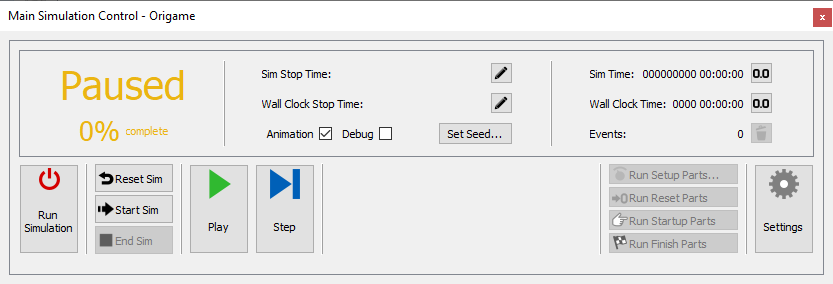
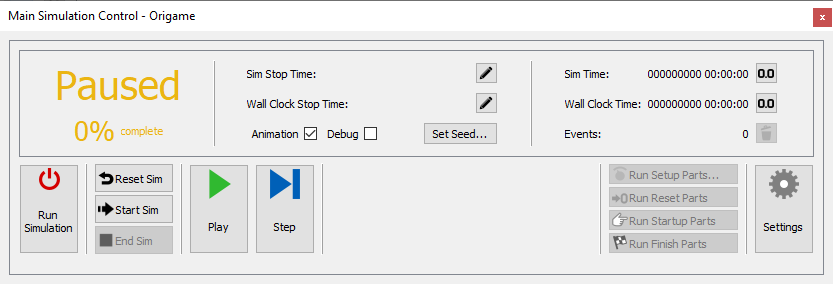
update the initial displayed max sim time

diff --git a/origame/gui/sim/main/Ui_main_sim_control_status.py b/origame/gui/sim/main/Ui_main_sim_control_status.py
@@ -358,19 +358,19 @@ class Ui_MainSimulationControlWidget(object):
         self.percent_complete_label.setText(_translate("MainSimulationControlWidget", "0%"))
         self.complete_label.setText(_translate("MainSimulationControlWidget", "complete"))
         self.label.setText(_translate("MainSimulationControlWidget", "Sim Stop Time:"))
-        self.max_sim_time_label.setText(_translate("MainSimulationControlWidget", "0000 00:00:00"))
+        self.max_sim_time_label.setText(_translate("MainSimulationControlWidget", "000000000 00:00:00"))
         self.edit_sim_stop_time_toolbutton.setText(_translate("MainSimulationControlWidget", "..."))
         self.label_2.setText(_translate("MainSimulationControlWidget", "Wall Clock Stop Time:"))
-        self.max_wall_clock_time_label.setText(_translate("MainSimulationControlWidget", "0000 00:00:00"))
+        self.max_wall_clock_time_label.setText(_translate("MainSimulationControlWidget", "000000000 00:00:00"))
         self.edit_wall_clock_stop_time_toolbutton.setText(_translate("MainSimulationControlWidget", "..."))
         self.animation_checkbox.setText(_translate("MainSimulationControlWidget", "Animation"))
         self.debug_checkbox.setText(_translate("MainSimulationControlWidget", "Debug"))
         self.set_seed_button.setText(_translate("MainSimulationControlWidget", "Set Seed..."))
         self.label_4.setText(_translate("MainSimulationControlWidget", "Sim Time:"))
-        self.sim_time_label.setText(_translate("MainSimulationControlWidget", "0000 00:00:00"))
+        self.sim_time_label.setText(_translate("MainSimulationControlWidget", "000000000 00:00:00"))
         self.reset_sim_time_toolbutton.setText(_translate("MainSimulationControlWidget", "..."))
         self.label_5.setText(_translate("MainSimulationControlWidget", "Wall Clock Time:"))
-        self.wall_clock_time_label.setText(_translate("MainSimulationControlWidget", "0000 00:00:00"))
+        self.wall_clock_time_label.setText(_translate("MainSimulationControlWidget", "000000000 00:00:00"))
         self.reset_wall_clock_time_toolbutton.setText(_translate("MainSimulationControlWidget", "..."))
         self.label_6.setText(_translate("MainSimulationControlWidget", "Events:"))
         self.number_of_events_label.setText(_translate("MainSimulationControlWidget", "0"))
